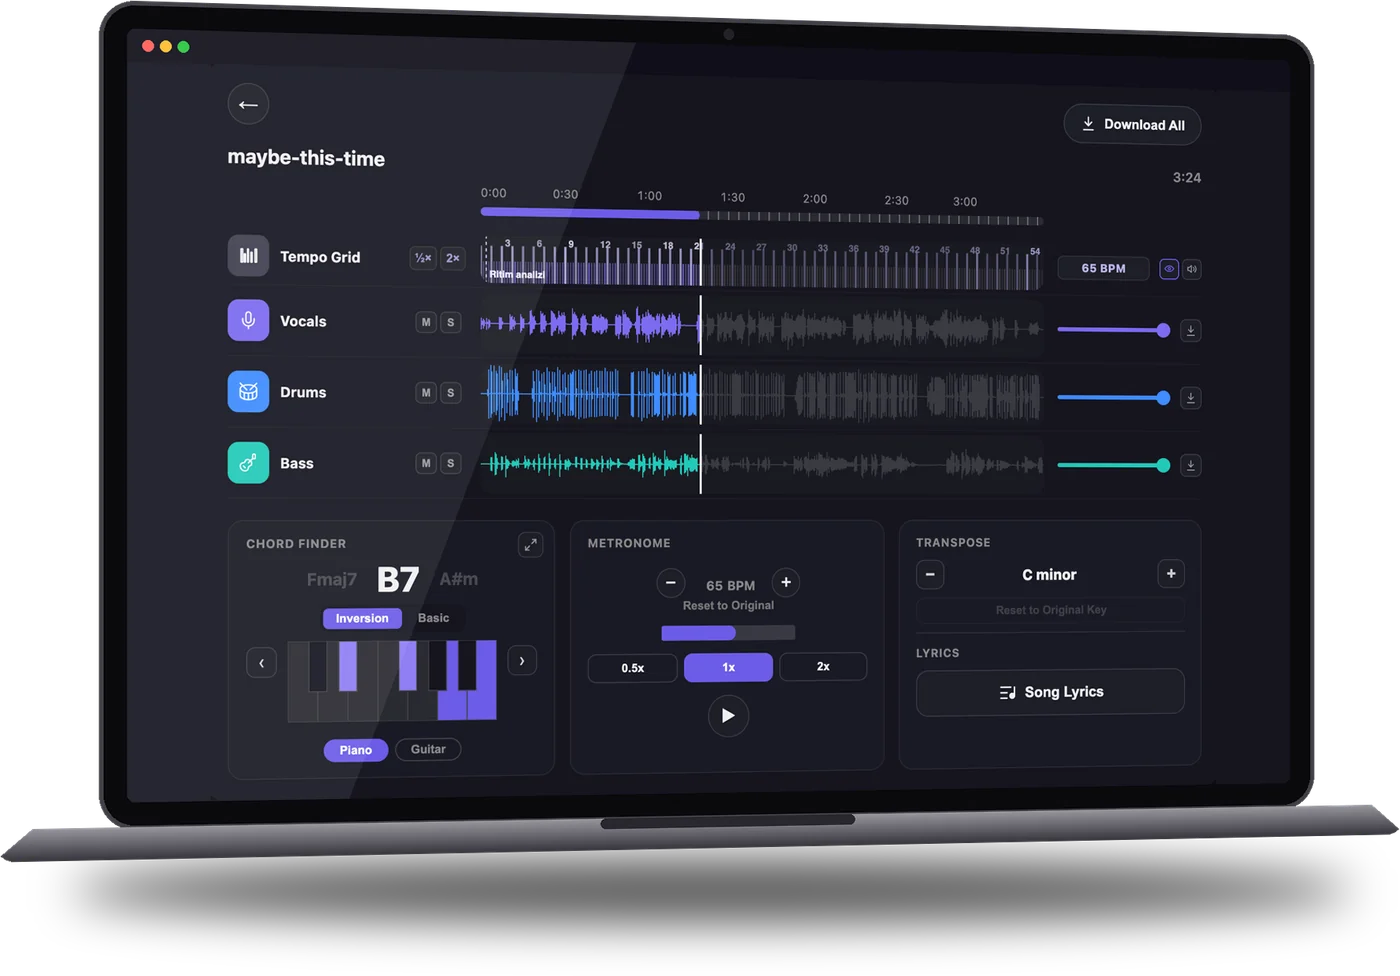
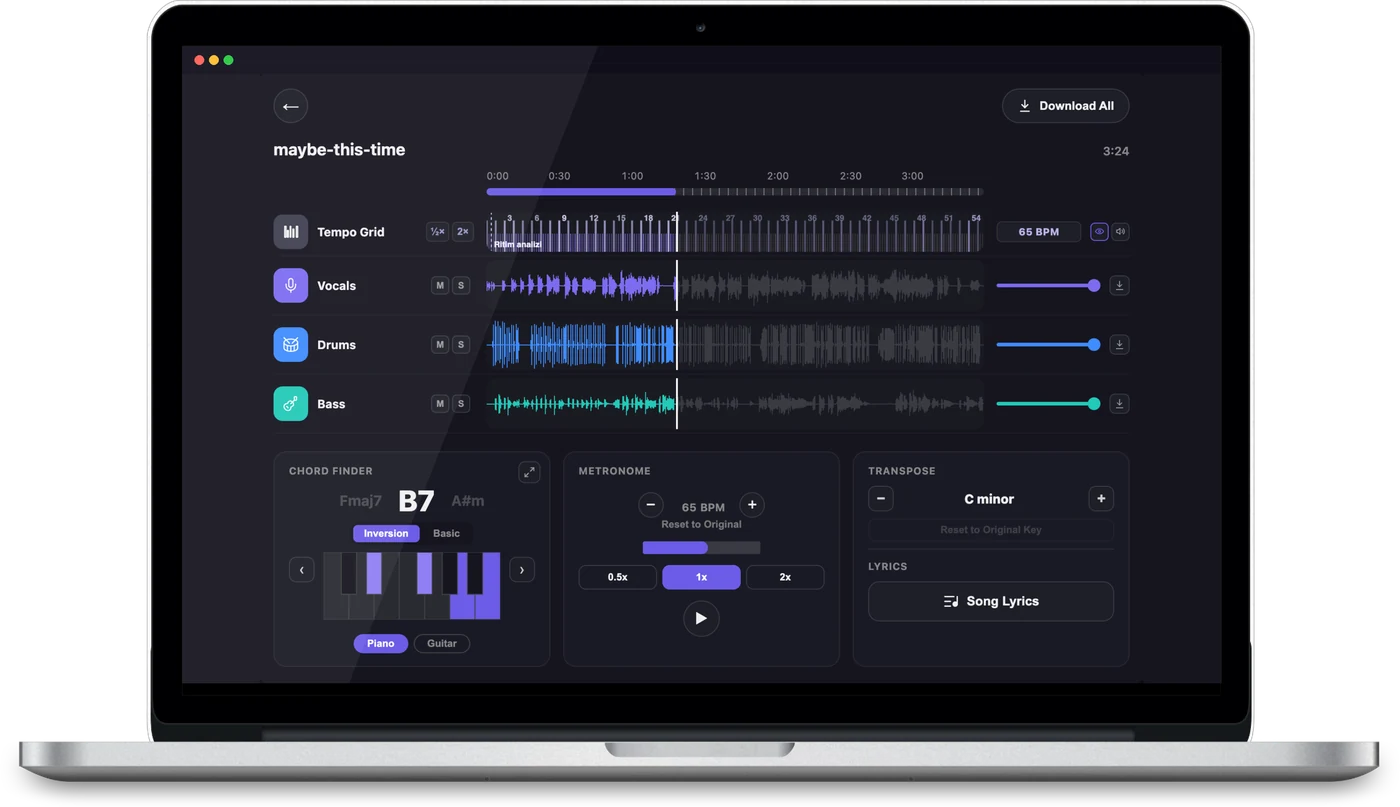
site: laptop maketi kullanıcının verdiği MacBook çerçevesiyle — uygulama ekrana tam oturtuldu
tools/macbook-cerceve.webp (saydam ekranlı) + tools/hero-laptop.py → assets/hero-laptop.webp (53 KB, 1400×807).
Uygulama ekranı Finder menü çubuğunu da örter; pencere çubuğu, ilk dört kanal ve Akor bulucu / Metronom / Ton görünür.

diff --git a/assets/style.css b/assets/style.css
@@ -137,14 +137,14 @@ nav {
   position: relative;
 }
 /* Laptop maketi (25.10, kullanıcı: "ana sayfada dalga çubuklarının olduğu yerde laptopta programımız olsun;
-   tam sığsın, akorlar da görünsün, hafif açılı dursun"). Tek görsel: assets/hero-laptop.webp — app-screenshot.png'den
-   16:10 ekran (pencere çubuğu, ilk dört kanal, Akor bulucu / Metronom / Ton) + hafif sağa dönük laptop + gölge.
-   Üreten betik: tools/hero-laptop.py. HTML'e dokunmaz; 6 dilde birden. Oran 1400×976 (1.434).
-   Yüzdeler kapsayıcı genişliğine göre (margin-top da genişlikten): W = %54 → yükseklik ≈ %37.7, dikeyde ortada. */
+   tam sığsın, akorlar da görünsün, hafif açılı dursun"). Tek görsel: assets/hero-laptop.webp — kullanıcının verdiği MacBook çerçevesine (tools/macbook-cerceve.webp)
+   app-screenshot.png'den ekran oturtulur (pencere çubuğu, ilk dört kanal, Akor bulucu / Metronom / Ton).
+   Üreten betik: tools/hero-laptop.py. HTML'e dokunmaz; 6 dilde birden. Oran 1400×807 (1.735).
+   Yüzdeler kapsayıcı genişliğine göre (margin-top da genişlikten): W = %54 → yükseklik ≈ %31.1, dikeyde ortada. */
 .hero::before {
   content: ""; position: absolute; z-index: 0; pointer-events: none;
-  right: 0; top: 50%; margin-top: -16.8%;
-  width: 54%; aspect-ratio: 1400 / 976;
+  right: 0; top: 50%; margin-top: -14.2%;
+  width: 54%; aspect-ratio: 1400 / 807;
   background: url("hero-laptop.webp") center / contain no-repeat;
 }
 .hero::after { content: none; }

diff --git a/tools/hero-laptop.py b/tools/hero-laptop.py
@@ -1,19 +1,24 @@
-# VoxoMix ilk ekran laptop maketi: uygulama görüntüsünden 16:10 ekran + açılı laptop (tek PNG/WebP).
-from PIL import Image, ImageDraw, ImageFilter
-import numpy as np
+# VoxoMix ilk ekran laptop maketi: kullanıcının verdiği MacBook çerçevesine (tools/macbook-cerceve.webp,
+# ekranı saydam) uygulama görüntüsünü oturtur → assets/hero-laptop.webp. Çalıştır: python3 tools/hero-laptop.py
+from PIL import Image, ImageDraw
 import os
 KOK = os.path.dirname(os.path.dirname(os.path.abspath(__file__)))
 KAYNAK = os.path.join(KOK, 'assets', 'app-screenshot.png')
+CERCEVE = os.path.join(KOK, 'tools', 'macbook-cerceve.webp')
 CIKTI = os.path.join(KOK, 'assets', 'hero-laptop.webp')
+# çerçevedeki ekran: beyaz menü çubuğu (y 66–89) + saydam alan (x 261–1743, y 90–976). Menü çubuğu da örtülür.
+EX0, EY0, EX1, EY1 = 260, 66, 1744, 978
+
 im = Image.open(KAYNAK).convert('RGBA')
 zemin = Image.new('RGBA', im.size, (12, 12, 15, 255)); zemin.alpha_composite(im); im = zemin.convert('RGB')
-panel = im.getpixel((200, 960))                     # pencere zemin rengi (iki bölüm arası boşluk)
+panel = im.getpixel((200, 960))                       # pencere zemin rengi
 X0, X1 = 80, 2144
 ust = im.crop((X0, 40, X1, 885))                       # başlık, zaman çizelgesi, Tempo/Vokal/Davul/Bas
 alt = im.crop((X0, 1772, X1, 2336))                    # Akor bulucu, Metronom, Ton + Sözler
 cubuk = 64                                            # pencere çubuğu (trafik ışıkları)
 icerik_h = cubuk + ust.height + 18 + alt.height
-W = int(round(icerik_h * 1.6)); H = icerik_h
+EW, EH = EX1 - EX0, EY1 - EY0
+W = int(round(icerik_h * EW / EH)); H = icerik_h
 ekran = Image.new('RGB', (W, H), panel)
 d = ImageDraw.Draw(ekran)
 d.rectangle([0, 0, W, cubuk], fill=tuple(max(0, c - 6) for c in panel))
@@ -21,59 +26,18 @@ for i, r in enumerate([(255, 95, 87), (254, 188, 46), (40, 200, 64)]):
     cx = 40 + i * 34; d.ellipse([cx - 11, cubuk // 2 - 11, cx + 11, cubuk // 2 + 11], fill=r)
 ox = (W - ust.width) // 2
 ekran.paste(ust, (ox, cubuk)); ekran.paste(alt, (ox, cubuk + ust.height + 18))
-ekran = ekran.resize((1600, 1000), Image.LANCZOS)
-
-# laptop çizimi (düz), sonra perspektif
-S = 1.0
-bez = 30; kenar = 6
-LW, LH = 1600 + 2 * bez + 2 * kenar, 1000 + 2 * bez + 2 * kenar
-GW = int(LW * 1.16); GH = 42
-CW, CH = GW + 120, LH + GH + 160
-tuval = Image.new('RGBA', (CW, CH), (0, 0, 0, 0))
-lx = (CW - LW) // 2; ly = 40
-# kapak: alüminyum kenar + siyah çerçeve
-kap = Image.new('RGBA', (LW, LH), (0, 0, 0, 0)); kd = ImageDraw.Draw(kap)
-kd.rounded_rectangle([0, 0, LW - 1, LH - 1], radius=46, fill=(64, 64, 70, 255))
-kd.rounded_rectangle([kenar, kenar, LW - 1 - kenar, LH - 1 - kenar], radius=40, fill=(10, 10, 12, 255))
-kd.ellipse([LW // 2 - 7, kenar + bez // 2 - 7, LW // 2 + 7, kenar + bez // 2 + 7], fill=(34, 34, 40, 255))
-ekr = ekran.convert('RGBA')
+ekran = ekran.resize((EW, EH), Image.LANCZOS).convert('RGBA')
 # cam parlaması
-par = Image.new('RGBA', ekr.size, (0, 0, 0, 0)); pd = ImageDraw.Draw(par)
-pd.polygon([(0, 0), (int(ekr.width * .42), 0), (int(ekr.width * .18), ekr.height), (0, ekr.height)], fill=(255, 255, 255, 18))
-ekr.alpha_composite(par)
-maske = Image.new('L', ekr.size, 0); ImageDraw.Draw(maske).rounded_rectangle([0, 0, ekr.width - 1, ekr.height - 1], radius=10, fill=255)
-kap.paste(ekr, (kenar + bez, kenar + bez), maske)
-tuval.alpha_composite(kap, (lx, ly))
-# gövde: önden görünen ince yamuk + menteşe çentiği
-gx = (CW - GW) // 2; gy = ly + LH - 4
-gov = Image.new('RGBA', (GW, GH), (0, 0, 0, 0)); gd = ImageDraw.Draw(gov)
-for y in range(GH):
-    t = y / (GH - 1); c = int(150 - 95 * t)
-    inset = int((1 - t) * GW * .025)
-    gd.line([(inset, y), (GW - 1 - inset, y)], fill=(c, c, c + 6, 255))
-gd.rounded_rectangle([GW // 2 - GW * .09, 0, GW // 2 + GW * .09, GH * .32], radius=6, fill=(40, 40, 46, 255))
-gm = Image.new('L', (GW, GH), 0); ImageDraw.Draw(gm).rounded_rectangle([0, -30, GW - 1, GH - 1], radius=26, fill=255)
-gov.putalpha(Image.fromarray(np.minimum(np.array(gov.split()[3]), np.array(gm))))
-tuval.alpha_composite(gov, (gx, gy))
+par = Image.new('RGBA', ekran.size, (0, 0, 0, 0))
+ImageDraw.Draw(par).polygon([(0, 0), (int(EW * .40), 0), (int(EW * .16), EH), (0, EH)], fill=(255, 255, 255, 14))
+ekran.alpha_composite(par)
 
-# perspektif: sağ kenar biraz geride (sağa doğru hafif küçülür) — rotateY ≈ -12°
-def katsayi(kaynak, hedef):
-    A = []; B = []
-    for (x, y), (u, v) in zip(hedef, kaynak):
-        A.append([x, y, 1, 0, 0, 0, -u * x, -u * y]); A.append([0, 0, 0, x, y, 1, -v * x, -v * y]); B += [u, v]
-    return np.linalg.solve(np.array(A, float), np.array(B, float)).tolist()
-w, h = tuval.size
-sag_kisalma = 0.085; genislik = 0.93
-hedef = [(0, 0), (w * genislik, h * sag_kisalma * .55), (w * genislik, h * (1 - sag_kisalma * .45)), (0, h)]
-duz = [(0, 0), (w, 0), (w, h), (0, h)]
-acili = tuval.transform((int(w * genislik) + 2, h), Image.PERSPECTIVE, katsayi(duz, hedef), Image.BICUBIC)
-# yumuşak zemin gölgesi
-son = Image.new('RGBA', (acili.width + 80, acili.height + 60), (0, 0, 0, 0))
-gol = Image.new('RGBA', son.size, (0, 0, 0, 0)); ImageDraw.Draw(gol).ellipse(
-    [int(son.width * .10), int(ly + LH + GH - 10), int(son.width * .92), int(ly + LH + GH + 70)], fill=(0, 0, 0, 170))
-gol = gol.filter(ImageFilter.GaussianBlur(28))
-son.alpha_composite(gol); son.alpha_composite(acili, (40, 0))
-kutu = son.getbbox(); son = son.crop(kutu)
+cerceve = Image.open(CERCEVE).convert('RGBA')
+son = Image.new('RGBA', cerceve.size, (0, 0, 0, 0))
+son.alpha_composite(ekran, (EX0, EY0))                 # ekran arkada, çerçeve önde (kenarlar çerçeveye otursun)
+son.alpha_composite(cerceve)
+son.alpha_composite(ekran.crop((0, 0, EW, 90 - EY0)), (EX0, EY0))   # beyaz menü çubuğunun üstünü de uygulama kaplasın
+son = son.crop(son.getbbox())
 son = son.resize((1400, int(son.height * 1400 / son.width)), Image.LANCZOS)
-son.save(CIKTI, 'WEBP', quality=86, method=6)
+son.save(CIKTI, 'WEBP', quality=88, method=6)
 print(son.size)
